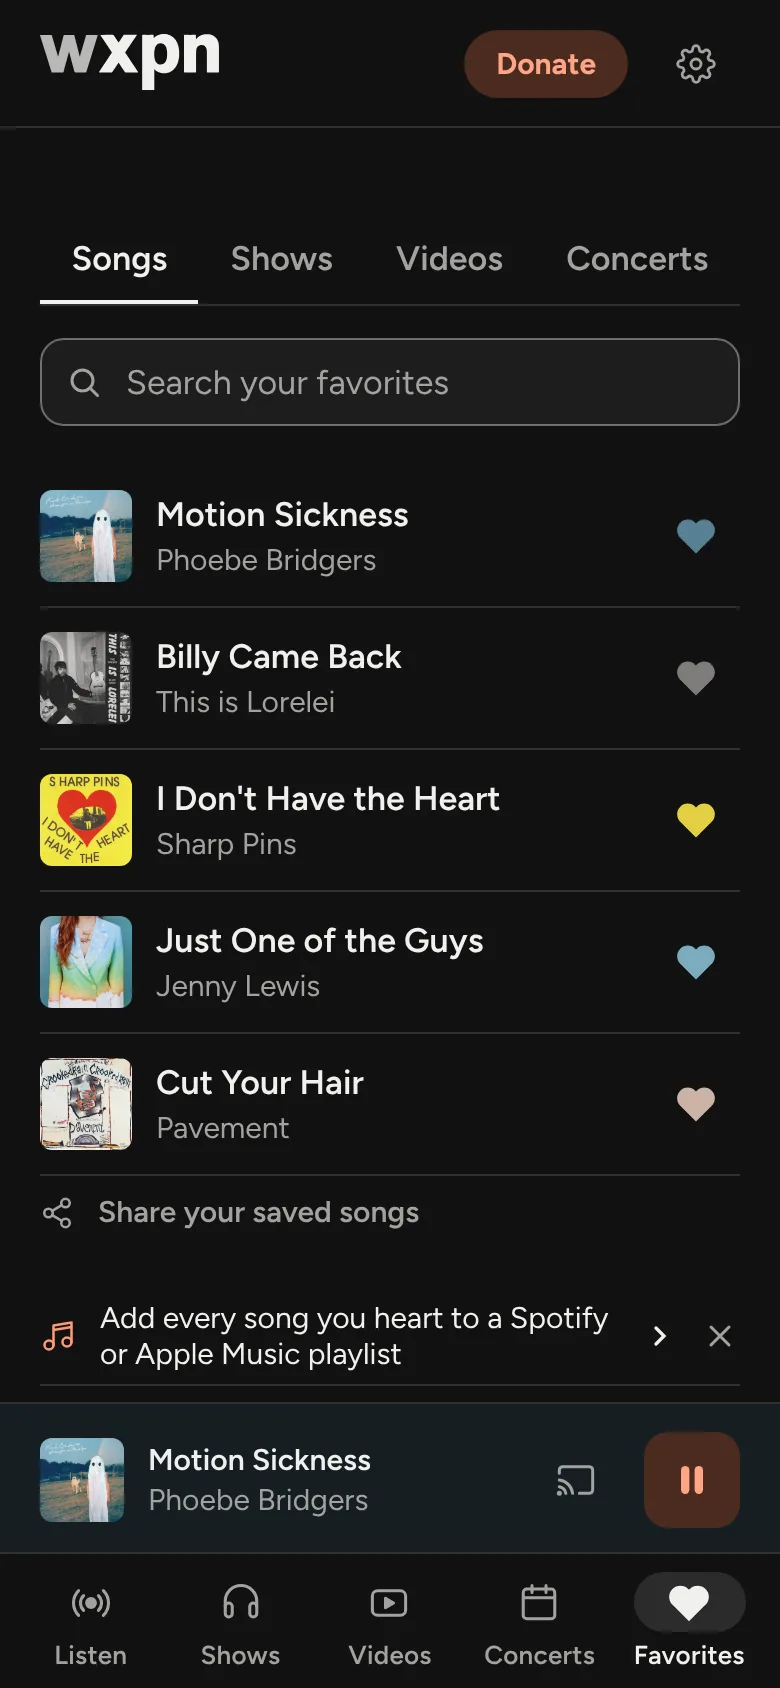
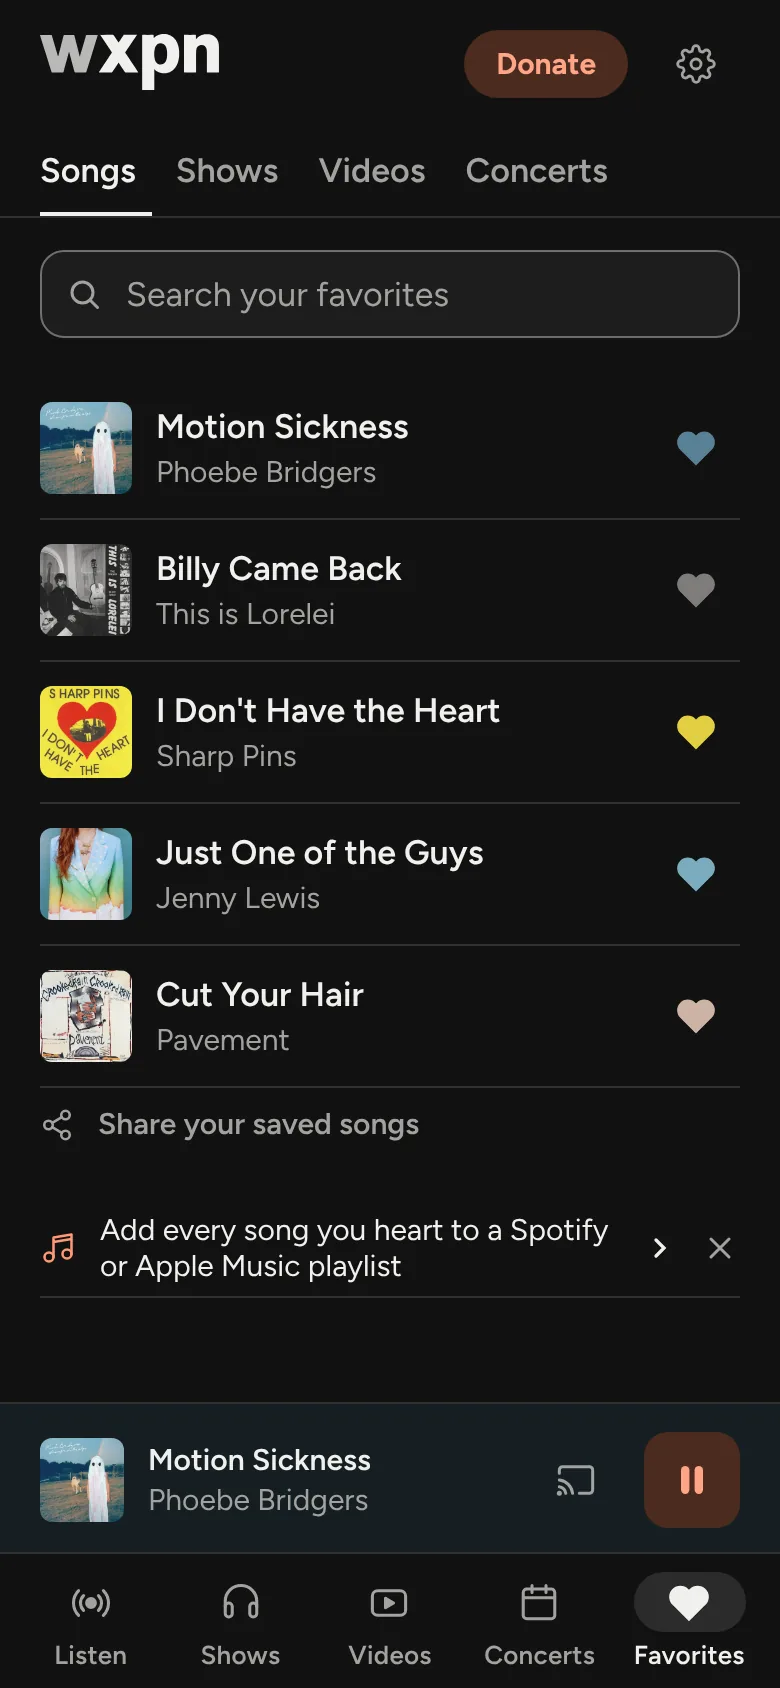
Tighter spacing: tabs hang from the header, closer schedule and archive
- Shows' and Favorites' views hang straight from the header on phones,
  as Listen's stations do: no 44px of padding and margin stacked above
  them, the rule across the full width, the names set close from the
  left instead of spread across it. The header's own rule steps aside
  there, as on Listen. Videos' search no longer has the toolbar's margin
  on top of the page's.
- Schedule: the day's heading sits under the day picker without its own
  16px either side, and rows are 12px tall instead of 16px each way.
- Archive and saved shows: 24px between shows instead of 32px.
- Empty states sit higher and less padded.
- Appearance (Automatic, Light, Dark) is a row of words, as every other
  choice, not three stacked across the panel.

Screens page shots retaken to match.

Claude-Session: https://claude.ai/code/session_01ShQkzQ4P55GtAki1K96Y5n

diff --git a/styles/responsive.css b/styles/responsive.css
@@ -52,7 +52,7 @@
       calc(-1 * var(--edge-left));
     padding-inline: var(--edge-left) var(--edge-right);
   }
-  .main-shell[data-screen="listen"] .topbar {
+  .main-shell:is([data-screen="listen"], [data-screen="shows"], [data-screen="favorites"]) .topbar {
     border-bottom-color: transparent;
   }
   /* Hidden visually on phones, where the tab bar names the screen, but kept
@@ -143,15 +143,30 @@
     flex: 1;
     padding: 0 var(--space-2);
   }
+  /* A screen's views (Shows, Favorites) hang from the app header as
+     Listen's stations do: straight under it, the rule across the whole
+     width, the names set close from the left edge. */
+  h1.sr-only + div > .toolbar:first-child {
+    margin-top: calc(-1 * var(--space-6));
+  }
+  .toolbar > .segmented:first-child {
+    width: auto;
+    margin-inline: calc(-1 * var(--edge-left)) calc(-1 * var(--edge-right));
+    padding-inline: var(--edge-left) var(--edge-right);
+    gap: var(--space-1);
+  }
   .toolbar .segmented button {
-    flex: 1 0 auto;
+    flex: 0 0 auto;
     white-space: nowrap;
     padding: var(--space-2);
+  }
+  .toolbar .segmented button:first-child {
+    padding-left: 0;
   }
 
   .schedule-row {
     gap: var(--space-3);
-    padding: var(--space-4) 0;
+    padding: var(--space-3) 0;
   }
   /* The hours in caption type, so "midnight" fits the narrow column, the
      end of the show under its start at the same size. */

diff --git a/styles/controls.css b/styles/controls.css
@@ -10,8 +10,14 @@
   gap: var(--space-4);
   margin: var(--space-6) 0;
 }
-/* Screens named by the tab bar start straight with their controls. */
-h1.sr-only + :is(.toolbar, .concert-filters) {
+/* Screens named by the tab bar start straight with their controls, also
+   when they're wrapped (Shows, Favorites) or come after pull to refresh
+   (Videos). */
+:is(
+  h1.sr-only + :is(.toolbar, .concert-filters),
+  h1.sr-only + div > .toolbar:first-child,
+  h1.sr-only + .pull-refresh + .toolbar
+) {
   margin-top: 0;
 }
 .segmented {
@@ -141,7 +147,7 @@ h1.sr-only + :is(.toolbar, .concert-filters) {
   margin: var(--space-1) 0 var(--space-4);
 }
 .schedule-heading {
-  margin: var(--space-4) 0;
+  margin: 0 0 var(--space-1);
 }
 .schedule-row {
   display: flex;
@@ -210,9 +216,9 @@ h1.sr-only + :is(.toolbar, .concert-filters) {
   text-underline-offset: 3px;
 }
 .empty-state {
-  padding: var(--space-12) var(--space-6);
+  padding: var(--space-10) var(--space-6);
   text-align: center;
-  margin: var(--space-6) 0;
+  margin: var(--space-2) 0;
 }
 .empty-state > .icon {
   color: var(--accent);

diff --git a/styles/pieces.css b/styles/pieces.css
@@ -17,10 +17,8 @@
 .expand-chevron {
   display: inline-flex;
 }
+/* Automatic, Light and Dark: a row of words, as every other choice. */
 .appearance-settings .segmented {
-  display: grid;
-  width: 100%;
-  max-width: 440px;
   margin-top: var(--space-3);
 }
 /* The status line keeps its height, so messages come and go without the

diff --git a/styles/archive.css b/styles/archive.css
@@ -9,7 +9,7 @@
 /* A show in the archive: its art, name and slot leading its latest
    broadcasts, so the list reads as shows' episodes, never as songs. */
 .archive-show {
-  margin-bottom: var(--space-8);
+  margin-bottom: var(--space-6);
 }
 .archive-show-head {
   display: flex;
